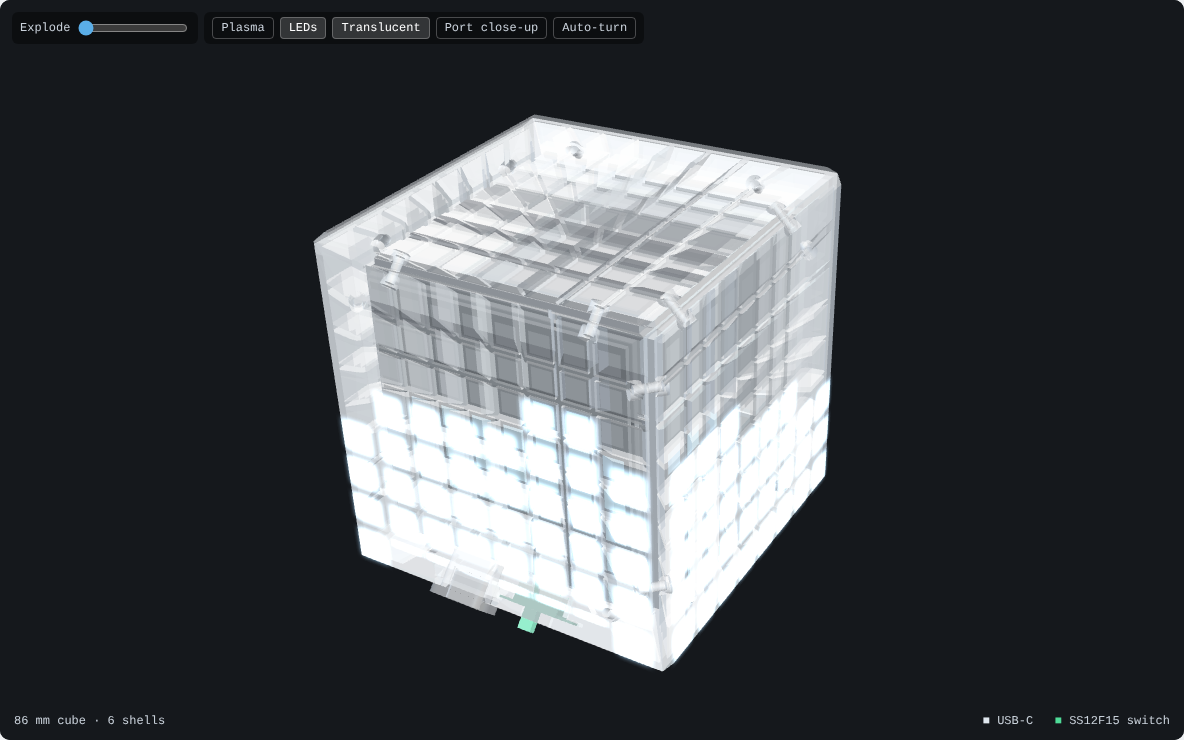
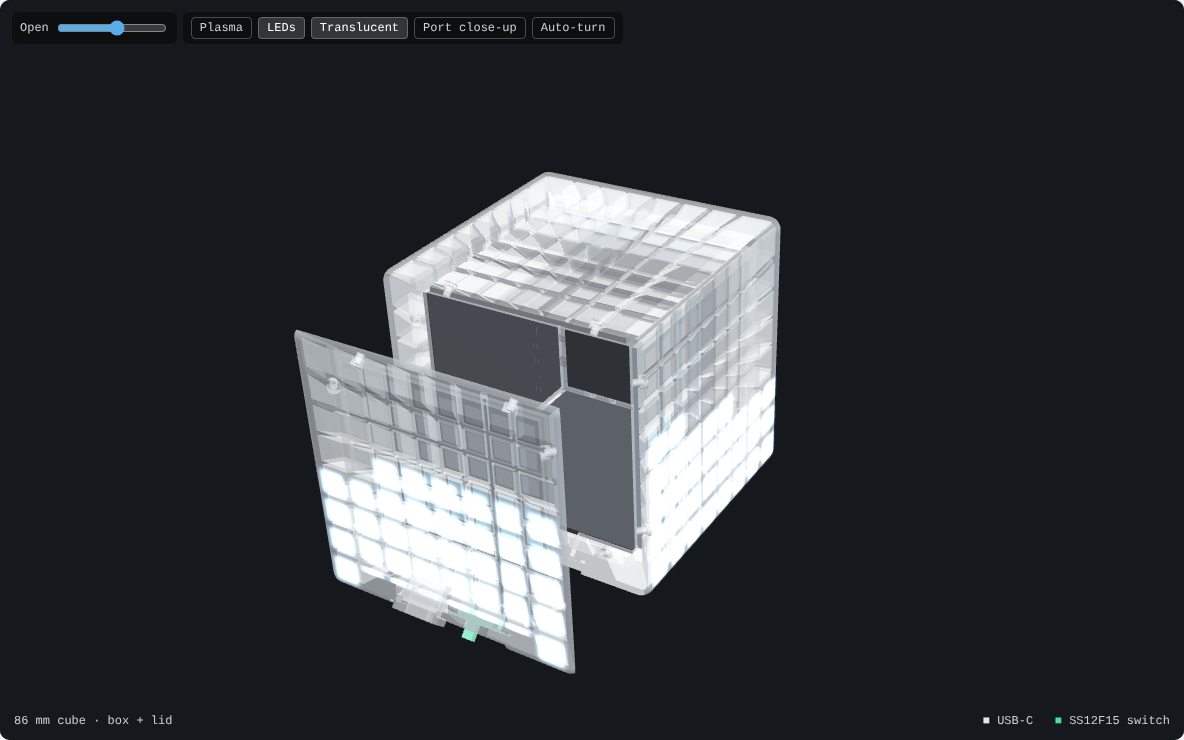
Update the Voxel Skin README numbers and preview for the rounded box and lid
Both profiles pass check_fit.py: outer and edge walls at least 1.30 mm
(65x65) and 1.37 mm (80x80), thinnest part 0.88 mm.

Claude-Session: https://claude.ai/code/session_01BWpaosr9mWHCACSGeV29nH

Changed region(s): [[0.25, 0.1554, 0.7188, 0.9324], [0.0, 0.0, 0.5312, 0.0622], [0.0938, 0.9635, 0.125, 0.9946]]

diff --git a/case/voxel-skin/README.md b/case/voxel-skin/README.md
@@ -1,6 +1,6 @@
 # Voxel Skin enclosure
 
-![Voxel Skin 65×65 in the 3D viewer](preview.png)
+![Voxel Skin 65×65 in the 3D viewer, lid lifted off the box](preview.png)
 
 A translucent resin cube whose six faces each hold one WS2812 8×8 panel. Five faces print as one open **box**; the front face is the **lid**. It comes in two sizes from the same generator:
 
@@ -8,7 +8,7 @@ A translucent resin cube whose six faces each hold one WS2812 8×8 panel. Five f
 |---|---|---|
 | Panel | rigid 65 × 66 mm, 8.125 mm pitch | flexible 80 × 80 mm, 10 mm pitch, on a 1 mm backing sheet |
 | Outer cube | **86.0 mm** | **100.0 mm** |
-| Resin | 124 cm³ (box 102.7 + lid 21.5) | 155 cm³ (box 128.4 + lid 26.7) |
+| Resin | 127 cm³ (box 105.3 + lid 22.0) | 159 cm³ (box 131.4 + lid 27.4) |
 | Lit width per face | 79.2 mm | 93.2 mm |
 | Pocket clearance per side | 0.25 mm | 0.4 mm |
 
@@ -48,7 +48,7 @@ The USB-C socket and the SS12F15 switch sit on a flat pad along the middle of th
 - every outer wall (surfaces on the outside of the cube or on a mitre) and every edge wall is at least **1.3 mm** thick, measured to the nearly parallel face behind it;
 - every feature is at least **0.8 mm** thick, counting wedges up to 45°.
 
-The thinnest outer wall is 1.37 mm (beside the port pockets). The thinnest features are the 0.9 mm walls around the dowel holes.
+The thinnest outer or edge wall is 1.30 mm on the 65 mm cube and 1.37 mm on the 80 mm cube. The thinnest features are the 0.9 mm walls around the dowel holes and the 0.85 mm pocket lip of the fit-test slice.
 
 | Dimension | 65x65 | 80x80 |
 |---|---|---|
